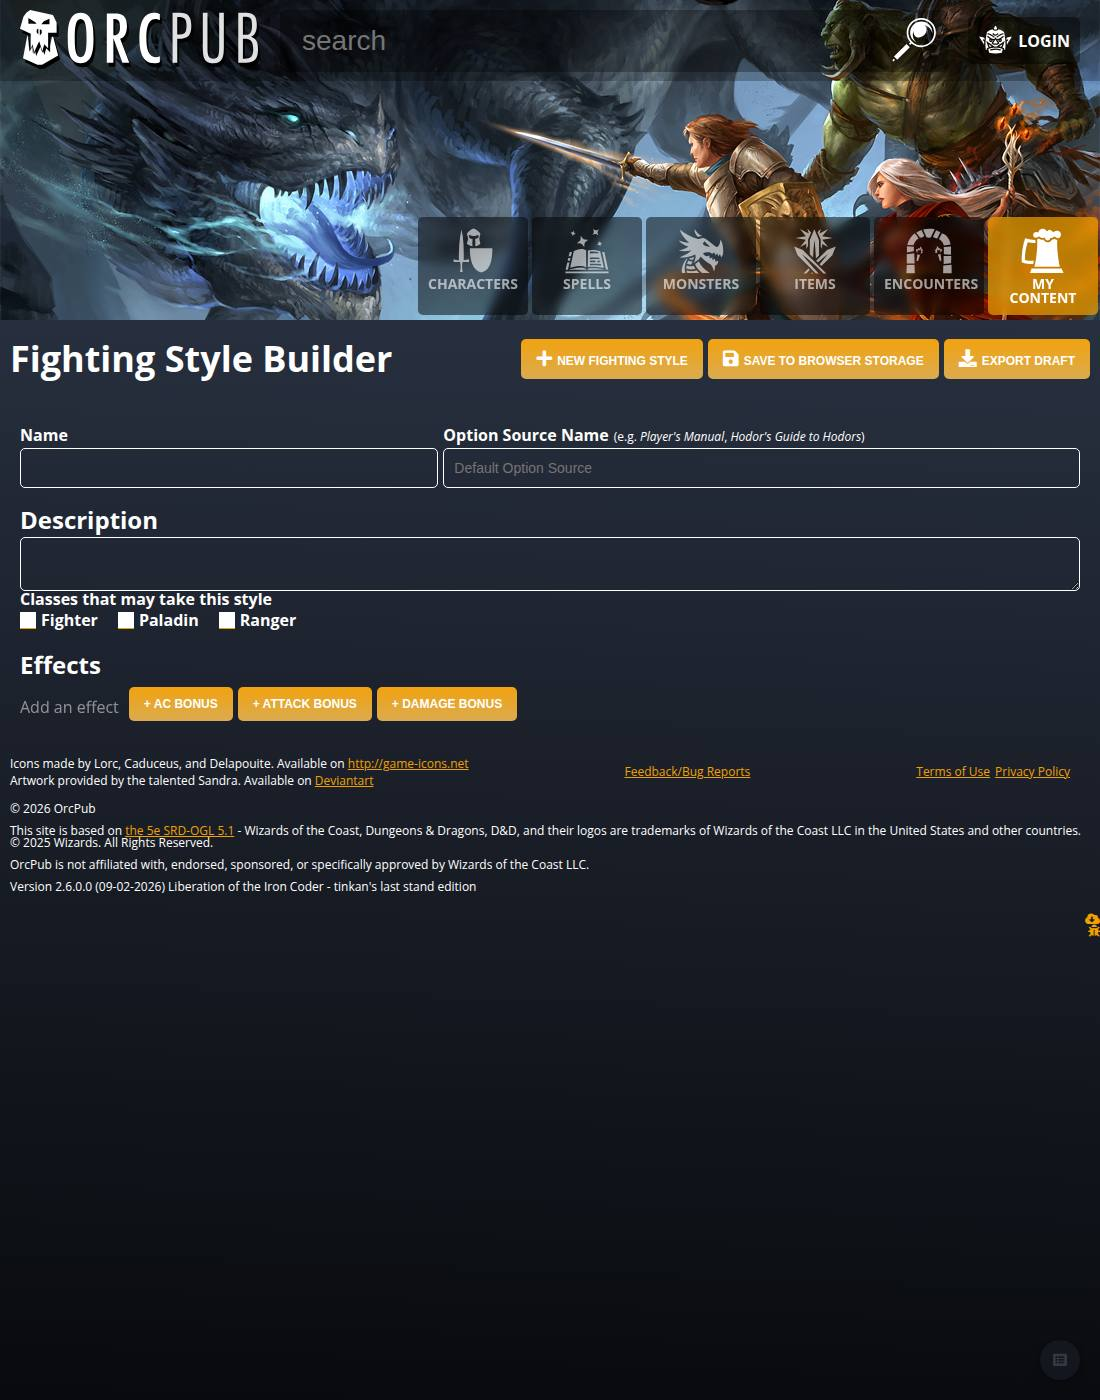
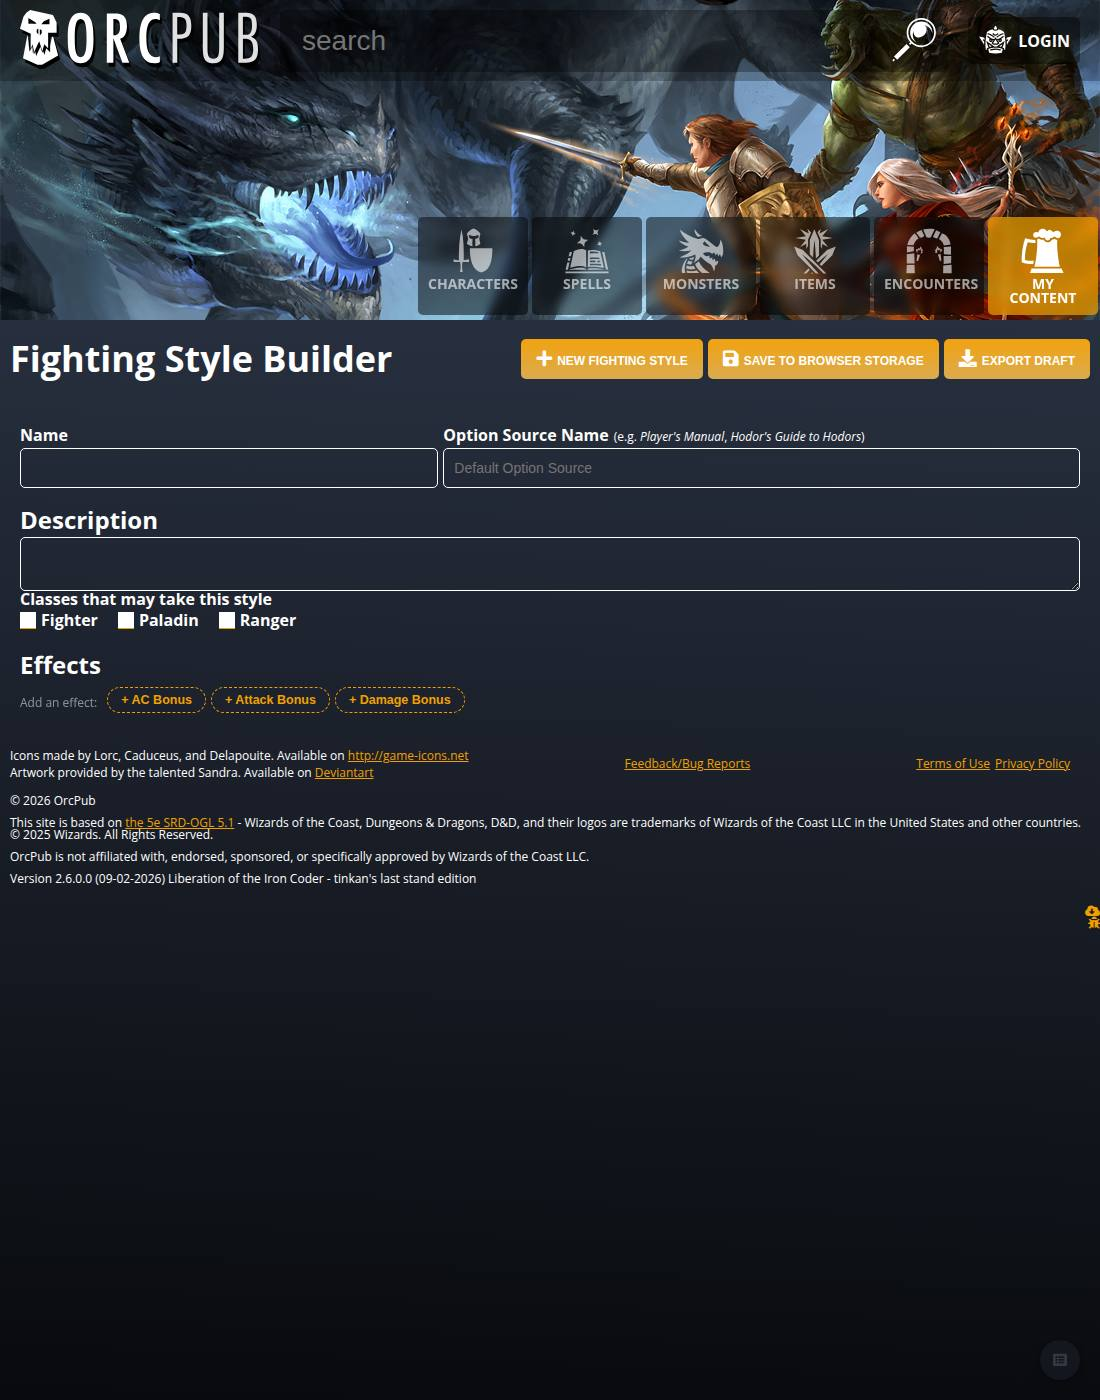
Port the approved mockup instead of reinventing the effects rows
The mockup at docs/kb/assets/builder-form-mockup.html had already solved this
and had already been reviewed. What shipped was an approximation of it. This
implements it:

- add-bar: dashed orange pill chips behind "Add an effect:", not solid
  form-buttons. A dashed outline reads as "there is more you could add"; a row
  of solid buttons competes with Save.
- group header: orange uppercase title on a tinted bar, so a row is visibly a
  container rather than a border.
- bonus: 92px, centred, bold, hint beside it at the input's baseline.
- tags: width:auto selects (a tag is two words, not a page) under a muted
  uppercase sub-heading, per kind — "Applies when" for AC, "Only with weapons
  that are" for attack and damage.
- select.set: a tag CARRYING a restriction is drawn in orange.

That last one is the mockup's answer to "seven dropdowns all saying Both", and
it is better than the one I started building. I had begun hiding unset tags
behind an "add a restriction" picker; that changes behaviour to fix a visual
problem, costs a click per restriction, and hides from the author that the
other six restrictions exist. Weight, not removal. Reverted unbuilt, and the
reasoning is recorded in the gallery so it is not re-litigated.

dropdown now takes :class-name, which is what carries `set`.

Authored form: 2229px flat -> 1622px, same 23 controls, 0 ambiguous labels.
The comparison script now sets one restriction before shooting, so the asset
[…]

Changed region(s): [[0.0, 0.4914, 0.9891, 0.645], [0.9891, 0.645, 1.0, 0.6757]]

diff --git a/test/e2e/form-shape-comparison.js b/test/e2e/form-shape-comparison.js
@@ -50,6 +50,22 @@ const shot = (page, file) => page.screenshot({ path: file, fullPage: true, type:
   for (const [label, value] of [['AC Bonus', '1'], ['Attack Bonus', '2'], ['Damage Bonus', '2']]) {
     if (!await fillEffectBonus(page, label, value)) console.log(`  (could not fill ${label})`);
   }
+  // Set one restriction, so the shot shows a tag that actually carries a value — this is
+  // Archery, and it is the case the mockup's `select.set` highlight exists for.
+  await page.evaluate(() => {
+    const vis = e => { const r = e.getBoundingClientRect(); return r.width > 0 && r.height > 0; };
+    const lbl = [...document.querySelectorAll('.f-w-b')]
+      .filter(e => e.textContent.trim() === 'Ranged' && vis(e))[0];
+    if (!lbl) return;
+    const sel = (lbl.parentElement || lbl).querySelector('select')
+             || lbl.nextElementSibling;
+    if (!sel || sel.tagName !== 'SELECT') return;
+    const opt = [...sel.options].find(o => /ranged weapons only/i.test(o.textContent));
+    if (!opt) return;
+    const setter = Object.getOwnPropertyDescriptor(window.HTMLSelectElement.prototype, 'value').set;
+    setter.call(sel, opt.value);
+    sel.dispatchEvent(new Event('change', { bubbles: true }));
+  });
   await page.waitForTimeout(600);
 
   const filled = await count();

diff --git a/docs/kb/builder-conversion-gallery.md b/docs/kb/builder-conversion-gallery.md
@@ -118,11 +118,23 @@ Bonus* or *Damage Bonus*.
 | visible controls, empty form | 7 | **4** |
 | visible controls, three effects authored | 23 | 23 |
 | labels repeated with nothing distinguishing them | **7** | **0** |
-| page height, authored | 2229px | **1650px** |
+| page height, authored | 2229px | **1622px** |
 
 The fully-authored form has exactly the same 23 controls — grouping removes no fields — but it is
-**579px shorter**, because inside a row a bonus gets a number's width and its tags wrap inline
+**607px shorter**, because inside a row a bonus gets a number's width and its tags wrap inline
 instead of each taking a page-wide row of its own.
+
+**The layout is a port of the approved mockup**, `assets/builder-form-mockup.html` — dashed pill
+chips on the add-bar, an orange uppercase group header, a 92px centred bonus with its hint beside
+it, and tags as `width:auto` selects under a muted sub-heading. Keep the two in step; the mockup is
+the design record and `styles/core.clj` is its implementation.
+
+**The `set` highlight is the answer to "seven dropdowns all saying Both".** A tag carrying an
+actual restriction is drawn in orange, so it reads at a glance against its unset neighbours — in
+the shot above, *Ranged weapons only* against six *Both*s. The alternative considered was hiding
+unset tags behind an "add a restriction" picker; it was **rejected** because it changes behaviour
+to solve a visual problem, costs a click per restriction, and hides from the author the fact that
+six other restrictions exist. Weight, not removal.
 
 **Correction (same day).** The first version of this table read *2513px, 284px taller*, and the
 paragraph here argued that the vertical cost was worth paying for unambiguous tags. That was
